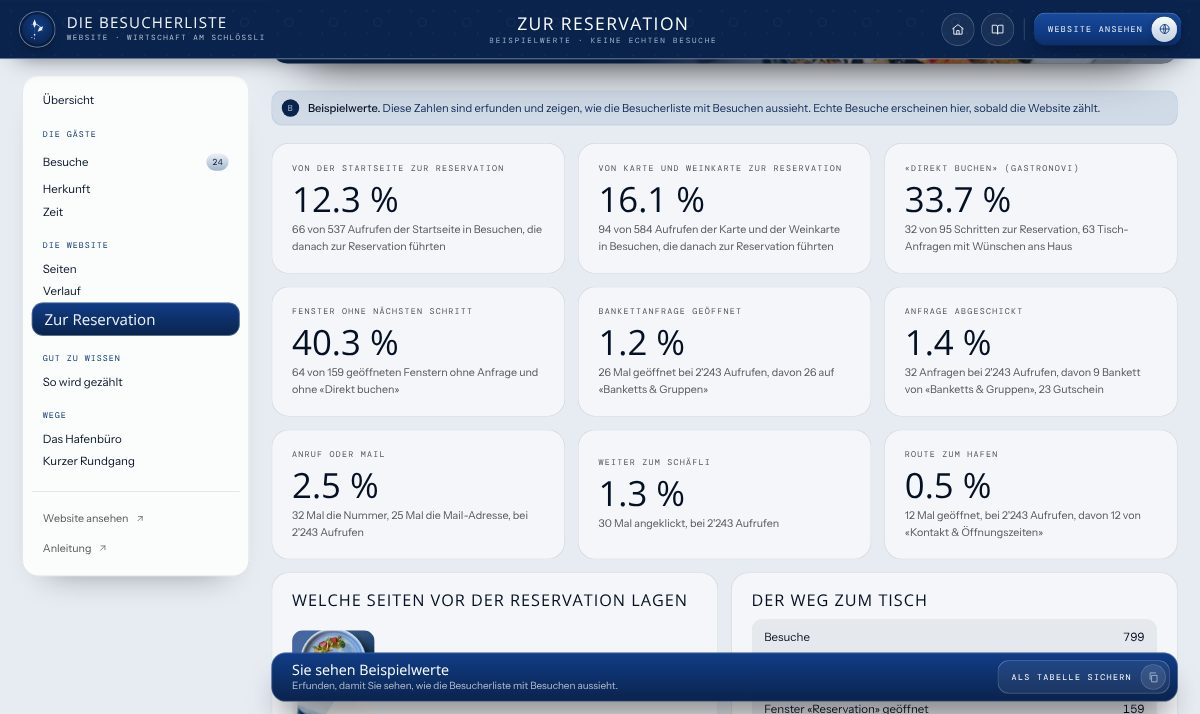
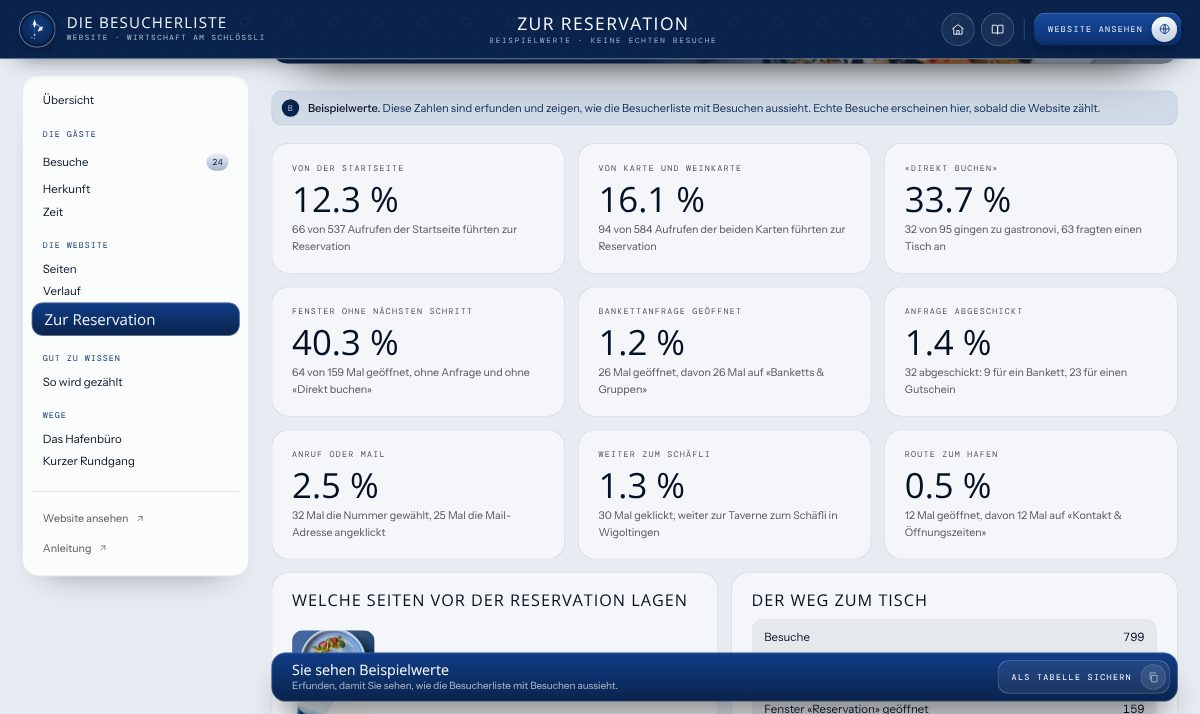
Besucherliste: Kennzahl-Blätter mit gemeinsamen Reihen (Zahl und Satzanfang auf einer Linie), kurze Sätze, bis 1240 px zwei Spalten
Claude-Session: https://claude.ai/code/session_0189oeKjbbQQZEEX38ZwsKfe

diff --git a/Wirtschaft am Schlössli Bottighofen/_werkzeuge/registre/registre.js b/Wirtschaft am Schlössli Bottighofen/_werkzeuge/registre/registre.js
@@ -614,15 +614,15 @@ function buchung() {
   const auf = z => z === 1 ? 'Aufruf' : 'Aufrufen';
   const mal_ = z => z === 1 ? 'einmal' : n(z) + ' Mal';
   aus += `<div class="werte">
-    ${k('start', 'Von der Startseite zur Reservation', x => n(x.zahl) + ' von ' + n(x.von) + ' ' + auf(x.von) + ' der Startseite in Besuchen, die danach zur Reservation führten', 'Die Startseite wurde noch nicht geöffnet.')}
-    ${k('karte', 'Von Karte und Weinkarte zur Reservation', x => n(x.zahl) + ' von ' + n(x.von) + ' ' + auf(x.von) + ' der Karte und der Weinkarte in Besuchen, die danach zur Reservation führten', 'Karte und Weinkarte wurden noch nicht geöffnet.')}
-    ${k('booking', '«Direkt buchen» (gastronovi)', x => n(x.zahl) + ' von ' + n(x.von) + ' Schritten zur Reservation, ' + mal(x.anfrage, 'eine Tisch-Anfrage', 'Tisch-Anfragen') + ' mit Wünschen ans Haus', 'Noch niemand ging zur Reservation.')}
-    ${k('abbruch', 'Fenster ohne nächsten Schritt', x => n(x.zahl) + ' von ' + n(x.von) + (x.von === 1 ? ' geöffneten Fenster' : ' geöffneten Fenstern') + ' ohne Anfrage und ohne «Direkt buchen»', 'Das Fenster «Reservation» wurde noch nicht geöffnet.')}
-    ${k('tisch', 'Bankettanfrage geöffnet', x => mal_(x.zahl) + ' geöffnet bei ' + n(x.von) + ' ' + auf(x.von) + ', davon ' + n(x.essen) + ' auf «Banketts & Gruppen»', 'Noch kein Aufruf.')}
-    ${k('anfrage', 'Anfrage abgeschickt', x => mal(x.zahl, 'eine Anfrage', 'Anfragen') + ' bei ' + n(x.von) + ' ' + auf(x.von) + ', davon ' + n(x.essen) + ' Bankett von «Banketts & Gruppen», ' + n(x.feste) + ' Gutschein', 'Noch kein Aufruf.')}
-    ${k('kontakt', 'Anruf oder Mail', x => mal_(x.anruf) + ' die Nummer, ' + mal_(x.mail) + ' die Mail-Adresse, bei ' + n(x.von) + ' ' + auf(x.von), 'Noch kein Aufruf.')}
-    ${k('chat', 'Weiter zum Schäfli', x => mal_(x.zahl) + ' angeklickt, bei ' + n(x.von) + ' ' + auf(x.von), 'Noch kein Aufruf.')}
-    ${k('route', 'Route zum Hafen', x => mal_(x.zahl) + ' geöffnet, bei ' + n(x.von) + ' ' + auf(x.von) + ', davon ' + n(x.weg) + ' von «Kontakt & Öffnungszeiten»', 'Noch kein Aufruf.')}
+    ${k('start', 'Von der Startseite', x => n(x.zahl) + ' von ' + n(x.von) + ' ' + auf(x.von) + ' der Startseite führten zur Reservation', 'Die Startseite wurde noch nicht geöffnet.')}
+    ${k('karte', 'Von Karte und Weinkarte', x => n(x.zahl) + ' von ' + n(x.von) + ' ' + auf(x.von) + ' der beiden Karten führten zur Reservation', 'Karte und Weinkarte wurden noch nicht geöffnet.')}
+    ${k('booking', '«Direkt buchen»', x => n(x.zahl) + ' von ' + n(x.von) + ' gingen zu gastronovi, ' + n(x.anfrage) + ' fragten einen Tisch an', 'Noch niemand ging zur Reservation.')}
+    ${k('abbruch', 'Fenster ohne nächsten Schritt', x => n(x.zahl) + ' von ' + n(x.von) + ' Mal geöffnet, ohne Anfrage und ohne «Direkt buchen»', 'Das Fenster «Reservation» wurde noch nicht geöffnet.')}
+    ${k('tisch', 'Bankettanfrage geöffnet', x => mal_(x.zahl) + ' geöffnet, davon ' + mal_(x.essen) + ' auf «Banketts & Gruppen»', 'Noch kein Aufruf.')}
+    ${k('anfrage', 'Anfrage abgeschickt', x => n(x.zahl) + ' abgeschickt: ' + n(x.essen) + ' für ein Bankett, ' + n(x.feste) + ' für einen Gutschein', 'Noch kein Aufruf.')}
+    ${k('kontakt', 'Anruf oder Mail', x => mal_(x.anruf) + ' die Nummer gewählt, ' + mal_(x.mail) + ' die Mail-Adresse angeklickt', 'Noch kein Aufruf.')}
+    ${k('chat', 'Weiter zum Schäfli', x => mal_(x.zahl) + ' geklickt, weiter zur Taverne zum Schäfli in Wigoltingen', 'Noch kein Aufruf.')}
+    ${k('route', 'Route zum Hafen', x => mal_(x.zahl) + ' geöffnet, davon ' + mal_(x.weg) + ' auf «Kontakt & Öffnungszeiten»', 'Noch kein Aufruf.')}
   </div>
   <div class="zwei zwei--fuell">
     <section class="blatt"><header><h3>Welche Seiten vor der Reservation lagen</h3></header>

diff --git a/Wirtschaft am Schlössli Bottighofen/_werkzeuge/registre/schloessli.css b/Wirtschaft am Schlössli Bottighofen/_werkzeuge/registre/schloessli.css
@@ -235,6 +235,9 @@
 /* Ranglisten mit Bild: Platz für den längsten Seitennamen («Kontakt & Öffnungszeiten») in einer Zeile; am Handy entfällt der Balken (der Anteil steht daneben), der Name bricht vor den letzten zwei Wörtern */
 @media (min-width:621px){.rg .rang:has(.mit-bild){grid-template-columns:fit-content(320px) minmax(60px,1fr) auto 42px}}
 @media (max-width:620px){.rg .rang:has(.mit-bild){grid-template-columns:minmax(0,1fr) auto 34px}.rg .rang:has(.mit-bild) .rang__b{display:none}.rg .rang__n:has(.mit-bild) .mit-bild>span{white-space:normal}}
-/* Cloud-Prüfung 3.11.2026 (3) Kennzahl-Blätter «Zur Reservation»: Etikett, Zahl und Satz als ein Block ohne Lücke,
-   senkrecht mittig im Blatt (oben und unten gleich viel Luft, innen kein Loch), auch wenn der Nachbar einen längeren Satz hat; Zahl grösser */
-@media (min-width:621px){.rg .werte .wert{grid-row:auto;display:flex;flex-direction:column;justify-content:center;gap:6px}.rg .werte .wert>.mono{min-height:0}.rg .werte .wert>b{font-size:clamp(2.2rem,2.9vw,2.8rem)}}
+/* Cloud-Prüfung 3.11.2026 (3) Kennzahl-Blätter «Zur Reservation»: Etikett, Zahl und Satz teilen sich die Reihen
+   der Blattreihe (Etikett unten bündig, Zahl auf einer Linie, Satzanfang auf einer Linie, Satz-Bereich mindestens zwei Zeilen); Sätze kurz, damit kein Satz länger als zwei Zeilen wird */
+@media (min-width:621px){.rg .werte .wert{grid-row:span 3;display:grid;grid-template-rows:subgrid;row-gap:6px;align-content:normal}.rg .werte .wert>.mono{min-height:0;align-self:end}.rg .werte .wert>b{font-size:clamp(2.2rem,2.9vw,2.8rem)}.rg .werte .wert>p{align-self:start}}
+/* Kennzahl-Blätter bis 1240 px in zwei Spalten (das letzte über die ganze Breite): in drei schmalen Spalten brachen Etiketten und Sätze ungleich um */
+@media (min-width:621px) and (max-width:1240px){.rg .werte{grid-template-columns:repeat(2,minmax(0,1fr))}.rg .werte>.wert:last-child{grid-column:1/-1}}
+@media (min-width:621px) and (max-width:960px){.rg .werte .wert>p{max-width:36ch}}

diff --git a/Wirtschaft am Schlössli Bottighofen/_werkzeuge/registre/index.html b/Wirtschaft am Schlössli Bottighofen/_werkzeuge/registre/index.html
@@ -17,7 +17,7 @@
 <link rel="stylesheet" href="/assets/oberflaeche/kleid/schloessli.css?v=fbd4831e99">
 <!-- registre.css nach dem Paket: grund.css setzt im Raum (.wo-app :where(p, ul, dl …)) Abstände auf null, die Inhalte des Werkzeugs brauchen ihre eigenen -->
 <link rel="stylesheet" href="registre.css?v=n1">
-<link rel="stylesheet" href="schloessli.css?v=n5">
+<link rel="stylesheet" href="schloessli.css?v=n9">
 </head>
 <body class="rg wo-app">
 <svg width="0" height="0" style="position:absolute" aria-hidden="true"><defs><g id="zeichen"></g></defs></svg>
@@ -34,7 +34,7 @@
 <footer class="wo-leiste" id="leiste"></footer>
 <div class="meldung" id="meldung" aria-live="polite"></div>
 <script src="/assets/oberflaeche/oberflaeche.js?v=0b1fa78a6c"></script>
-<script src="registre.js?v=n3"></script>
+<script src="registre.js?v=n5"></script>
 <script src="rundgang.js?v=n2" defer></script>
 <script src="zur-werkbank.js?v=n1" defer data-zw data-neben="#rand" data-luft="40" data-ueber="#leiste"></script>
 </body>
